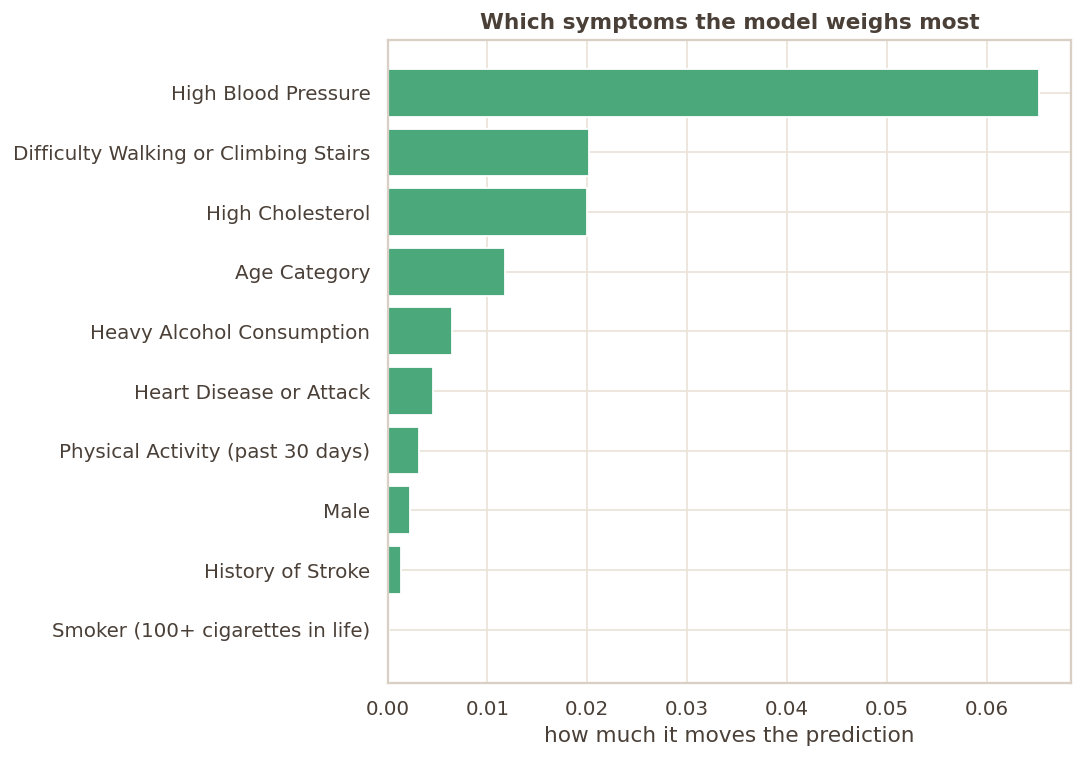
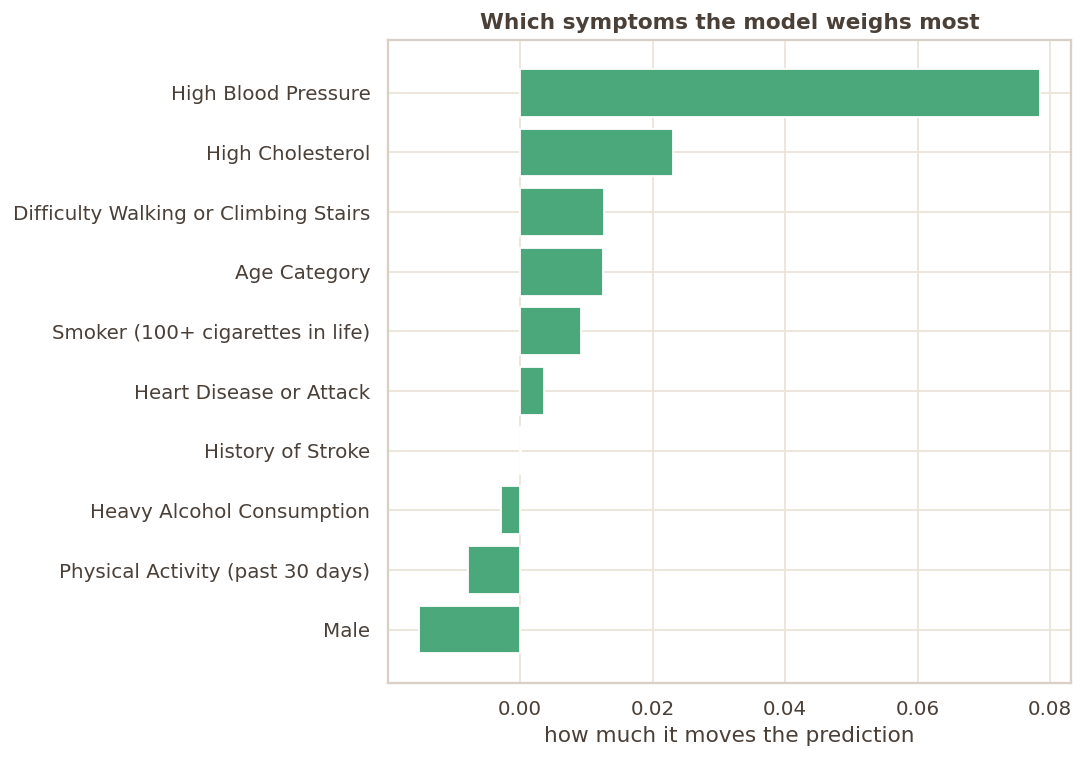
Update model artifacts and add comparison plot script

diff --git a/backend/plot_comparison.py b/backend/plot_comparison.py
@@ -1,0 +1,41 @@
+import matplotlib
+matplotlib.use("Agg")
+import matplotlib.pyplot as plt
+
+def make_chart():
+    models = ["Logistic\nRegression", "Random\nForest", "Gradient\nBoosting", "Hybrid\nEnsemble"]
+    # CV AUC values from the output
+    auc = [0.728, 0.702, 0.738, 0.739]
+
+    # Colors
+    GREEN = "#4aa87a"
+    CORAL = "#e8896a"
+    TEAL = "#7bb0c4"
+    INK = "#4a4038"
+
+    plt.rcParams.update({
+        "font.family": "DejaVu Sans", "text.color": INK, "axes.labelcolor": INK,
+        "axes.titlecolor": INK, "axes.titleweight": "bold", "xtick.color": INK,
+        "ytick.color": INK, "axes.edgecolor": "#d9cfc4", "grid.color": "#ece4d9",
+        "figure.dpi": 130,
+    })
+
+    fig, ax = plt.subplots(figsize=(8.5, 6))
+    colors = [TEAL, TEAL, TEAL, CORAL]
+    bars = ax.bar(models, auc, color=colors, width=0.6)
+    
+    ax.set_ylim(0.65, 0.8)
+    ax.set_ylabel("Cross-Validated ROC-AUC")
+    ax.set_title("Model Comparison: CV AUC Scores")
+
+    # Add text labels on bars
+    for bar, val in zip(bars, auc):
+        yval = bar.get_height()
+        ax.text(bar.get_x() + bar.get_width()/2, yval + 0.002, f"{val:.3f}", ha='center', va='bottom', fontweight='bold', color=INK)
+
+    fig.tight_layout()
+    fig.savefig("/Users/sawe/Downloads/diabetes-presentation/assets/model_comparison.png", transparent=True, bbox_inches="tight")
+    plt.close(fig)
+
+if __name__ == "__main__":
+    make_chart()